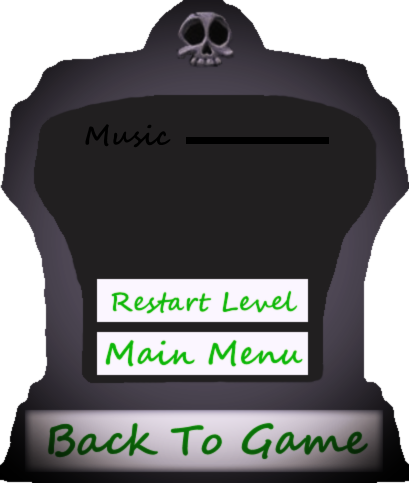
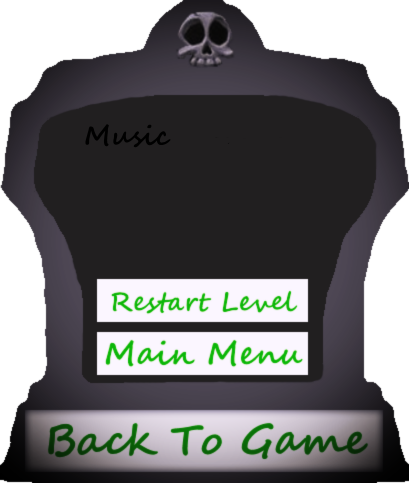
Svytoslav Добавил музыку, полоску для изменения громкости, анимация на стартовом меню

Changed region(s): [[0.4401, 0.2795, 0.8215, 0.3106]]

diff --git a/mainGame.py b/mainGame.py
@@ -43,23 +43,31 @@ def load_screen():
 def pause():
 
     screen.blit(gameMenu['pause'], (350, 50))
-    screen.blit(soundPick, (532, 179))
-    volume = button(soundPick, 532, 179)
-    volume.rect = pygame.Rect(537, 179, 142, 20)
+    volume = button(progressBarSound, 532, 175)
+    screen.blit(volume.image, (532, 175))
+    pygame.draw.rect(screen, BLUE, pygame.Rect(546, 185, game.soundVolume * 100 / 0.68, 10))
+    screen.blit(soundPick, (540 + game.soundVolume * 100 / 0.68, 180))
     volFlag = False
     while True:
-
+        print(game.soundVolume)
         for event in pygame.event.get():
             if event.type == pygame.QUIT:
                 terminate()
             elif event.type == pygame.MOUSEBUTTONDOWN:
                 if pygame.Rect.collidepoint(volume.rect, event.pos):
                     screen.blit(gameMenu['pause'], (350, 50))
+                    screen.blit(volume.image, (532, 175))
                     screen.blit(soundPick, (event.pos[0] - 10, 179))
-                    vol = (event.pos[0] - 532) * 0.7 / 100
-                    if vol > 0.1:
-                        music.set_volume(vol)
+                    pygame.draw.rect(screen, BLUE, pygame.Rect(546, 185, event.pos[0] - 546, 10))
+                    vol = (event.pos[0] - 540) * 0.68 / 100
+                    if 1 > vol > 0.1:
+                        game.soundVolume = vol
+                        music.set_volume(game.soundVolume)
+                    elif vol > 1:
+                        game.soundVolume = 1
+                        music.set_volume(1)
                     else:
+                        game.soundVolume = 0
                         music.set_volume(0)
                     volFlag = True
                 if 376 <= event.pos[0] <= 732 and 465 <= event.pos[1] <= 529:
@@ -74,16 +82,25 @@ def pause():
 
         if volFlag and 450 <= event.pos[0] <= 800:
             screen.blit(gameMenu['pause'], (350, 50))
-            if event.pos[0] < 542:
-                screen.blit(soundPick, (532, 179))
-            elif event.pos[0] > 679:
-                screen.blit(soundPick, (669, 179))
+            screen.blit(volume.image, (532, 175))
+            if event.pos[0] < 550:
+                pygame.draw.rect(screen, BLUE, pygame.Rect(546, 185, 1, 10))
+                screen.blit(soundPick, (540, 180))
+            elif event.pos[0] > 700:
+                pygame.draw.rect(screen, BLUE, pygame.Rect(546, 185, 140, 10))
+                screen.blit(soundPick, (685, 180))
             else:
-                screen.blit(soundPick, (event.pos[0] - 10, 179))
-            vol = (event.pos[0] - 532) * 0.7 / 100
-            if vol > 0.1:
-                music.set_volume(vol)
+                pygame.draw.rect(screen, BLUE, pygame.Rect(546, 185, event.pos[0] - 546, 10))
+                screen.blit(soundPick, (event.pos[0] - 10, 180))
+            vol = (event.pos[0] - 540) * 0.68 / 100
+            if 1 > vol > 0.1:
+                game.soundVolume = vol
+                music.set_volume(game.soundVolume)
+            elif vol > 1:
+                game.soundVolume = 1
+                music.set_volume(1)
             else:
+                game.soundVolume = 0
                 music.set_volume(0)
 
         pygame.display.flip()
@@ -93,46 +110,36 @@ def pause():
 def start_screen():
     intro_text = [""]
 
-    fon = pygame.transform.scale(pygame.image.load('Graphics/other/mainMenu.png'), (WIDTH2, HEIGHT2))
-    screen.blit(fon, (0, 0))
+    indexAnimationMainMenu = 0
+    screen.blit(mainMenu[indexAnimationMainMenu], (0, 0))
 
-    music.play(-1)
     bStart = button(menu['start'], 580, 80)
     bStartChange = button(menu['startChange'], 580, 80)
     bExit = button(menu['exit'], 930, 490)
     bExitChange = button(menu['exitChange'], 930, 490)
     screen.blit(bStart.image, (580, 80))
     screen.blit(bExit.image, (930, 505))
-    font = pygame.font.Font(None, 30)
-    text_coord = 50
-    for line in intro_text:
-        string_rendered = font.render(line, 1, pygame.Color('white'))
-        intro_rect = string_rendered.get_rect()
-        text_coord += 10
-        intro_rect.top = text_coord
-        intro_rect.x = 10
-        text_coord += intro_rect.height
-        screen.blit(string_rendered, intro_rect)
-
+    flgStartB = False
+    flgExitB = False
     while True:
         for event in pygame.event.get():
             if event.type == pygame.QUIT:
                 terminate()
             elif event.type == pygame.MOUSEMOTION:
                 if 583 <= event.pos[0] <= 921 and 109 <= event.pos[1] <= 175:
-                    screen.blit(bStartChange.image, (580, 80))
+                    flgStartB = True
                 elif 788 <= event.pos[0] <= 902 and 186 <= event.pos[1] <= 218:
-                    screen.blit(bStartChange.image, (580, 80))
+                    flgStartB = True
                 elif 658 <= event.pos[0] <= 835 and 83 <= event.pos[1] <= 121:
-                    screen.blit(bStartChange.image, (580, 80))
+                    flgStartB = True
                 elif 620 <= event.pos[0] <= 788 and 175 <= event.pos[1] <= 200:
-                    screen.blit(bStartChange.image, (580, 80))
+                    flgStartB = True
                 else:
-                    screen.blit(bStart.image, (580, 80))
+                    flgStartB = False
                 if 930 <= event.pos[0] <= 1000 and 512 <= event.pos[1] <= 535:
-                    screen.blit(bExitChange.image, (930, 505))
+                    flgExitB = True
                 else:
-                    screen.blit(bExit.image, (930, 505))
+                    flgExitB = False
             elif event.type == pygame.MOUSEBUTTONDOWN:
                 print(event.pos)
                 if 583 <= event.pos[0] <= 921 and 109 <= event.pos[1] <= 175:
@@ -149,13 +156,30 @@ def start_screen():
                     return shields['game']()
                 elif 930 <= event.pos[0] <= 1000 and 512 <= event.pos[1] <= 535:
                     terminate()
+
+        screen.blit(mainMenu[indexAnimationMainMenu // 2 - 1], (0, 0))
+        if indexAnimationMainMenu >= len(mainMenu) * 2:
+            indexAnimationMainMenu = 0
+        else:
+            indexAnimationMainMenu += 1
+
+        if not flgStartB:
+            screen.blit(bStart.image, (580, 80))
+        else:
+            screen.blit(bStartChange.image, (580, 80))
+
+        if not flgExitB:
+            screen.blit(bExit.image, (930, 505))
+        else:
+            screen.blit(bExitChange.image, (930, 505))
+
         pygame.display.flip()
         clock.tick(FPS)
 
 
 def game():
     zs = pygame.sprite.Group()
-    music.play(-1)
+
     game.suns = 5000
     screen.blit(sBackGround, (0, 0))
     field = Field(FIELD_WIDTH, FIELD_HEIGHT, FIELD_CELL_WIDTH, FIELD_CELL_HEIGHT, FIELD_LEFT, FIELD_TOP, screen, game)
@@ -209,6 +233,8 @@ shields = {'load_screen': load_screen,
            'pause': pause}
 
 game = Game(5000)
+music.play(-1)
+music.set_volume(game.soundVolume)
 
 while True:
-    temp = shields['load_screen']()
+    temp = shields['start_screen']()

diff --git a/allConstants.py b/allConstants.py
@@ -43,6 +43,8 @@ sBackGround = pygame.image.load('Graphics/other/Frontyard.jpg').convert()
 sMenu = load_image(f'Graphics/other/menu.png', (160, 50))
 panelSun = load_image(f'Graphics/other/panelSun.png', (160, 60))
 
+mainMenu = [load_image(f'Graphics/other/animationStartMenu/{"0" *(4 - len(str(i + 1))) + str(i + 1)}.png', (WIDTH2, HEIGHT2)) for i in range(11)]
+
 punkteer = load_image('Graphics/cards/punkteer.png', SIZE_OF_CARDS)
 
 fontSun = pygame.font.Font('freesansbold.ttf', 30)
@@ -62,13 +64,15 @@ plants = {'wallNut': [load_image(f'Graphics/plants/animationWallNut/{"0" *(4 - l
 menu = {'start': load_image(f'Graphics/other/SelectorScreen_StartAdventure_Button1.png', (350, 141)),
         'startChange': load_image(f'Graphics/other/SelectorScreen_StartAdventure_Highlight.png', (350, 141)),
         'exit': load_image(f'Graphics/other/buttonExit.png', (70, 30)),
-        'exitChange': load_image(f'Graphics/other/buttonExitChange.png', (70, 30))}
+        'exitChange': load_image(f'Graphics/other/buttonExitChange.png', (70, 30)),
+        }
 
 gameMenu = {'pause': load_image(f'Graphics/other/pauseMenu.png', (410, 490))}
 
 load_screen_sprites = [load_image(f'Graphics/other/animationLoadScreen/{"0" *(4 - len(str(i + 1))) + str(i + 1)}.png', (WIDTH2, HEIGHT2)) for i in range(14)]
 
 soundPick = load_image(f'Graphics/other/soundPick.png', (20, 20))
+progressBarSound = load_image(f'Graphics/other/soundProgressBar.png', (182, 32))
 
 cards = {'gatlingPea': load_image('Graphics/cards/gatlingPea.png', SIZE_OF_CARDS),
          'sunrise': load_image('Graphics/cards/sunrise.png', SIZE_OF_CARDS),

diff --git a/classGame/__init__.py b/classGame/__init__.py
@@ -1,3 +1,4 @@
 class Game:
     def __init__(self, suns):
         self.suns = suns
+        self.soundVolume = 0.5
